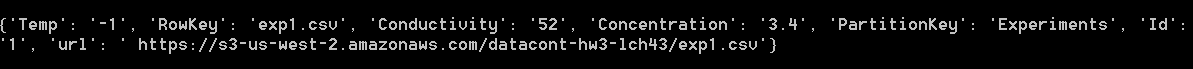
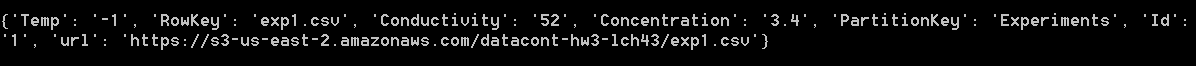
Changed NoSQL HW3 DataTable region to us-east-2 to be more consistent

Changed region(s): [[0.0, 0.2121, 0.9925, 0.4848], [0.0, 0.5152, 0.6513, 0.7576]]

diff --git a/NoSQL/hw3.py b/NoSQL/hw3.py
@@ -74,7 +74,7 @@ with open('experiments.csv', 'r') as csvfile:
         s3.Object(bucket_name, item[4]).put(Body=body )
         md = s3.Object(bucket_name, item[4]).Acl().put(ACL='public-read')
 
-        url = " https://s3-us-west-2.amazonaws.com/"+bucket_name+"/"+item[4]
+        url = "https://s3-"+region+".amazonaws.com/"+bucket_name+"/"+item[4]
         metadata_item = {'PartitionKey': 'Experiments', 'RowKey':item[4], 'Id': item[0], 'Temp': item[1],
             'Conductivity' : item[2], 'Concentration' : item[3], 'url':url}
         try:
